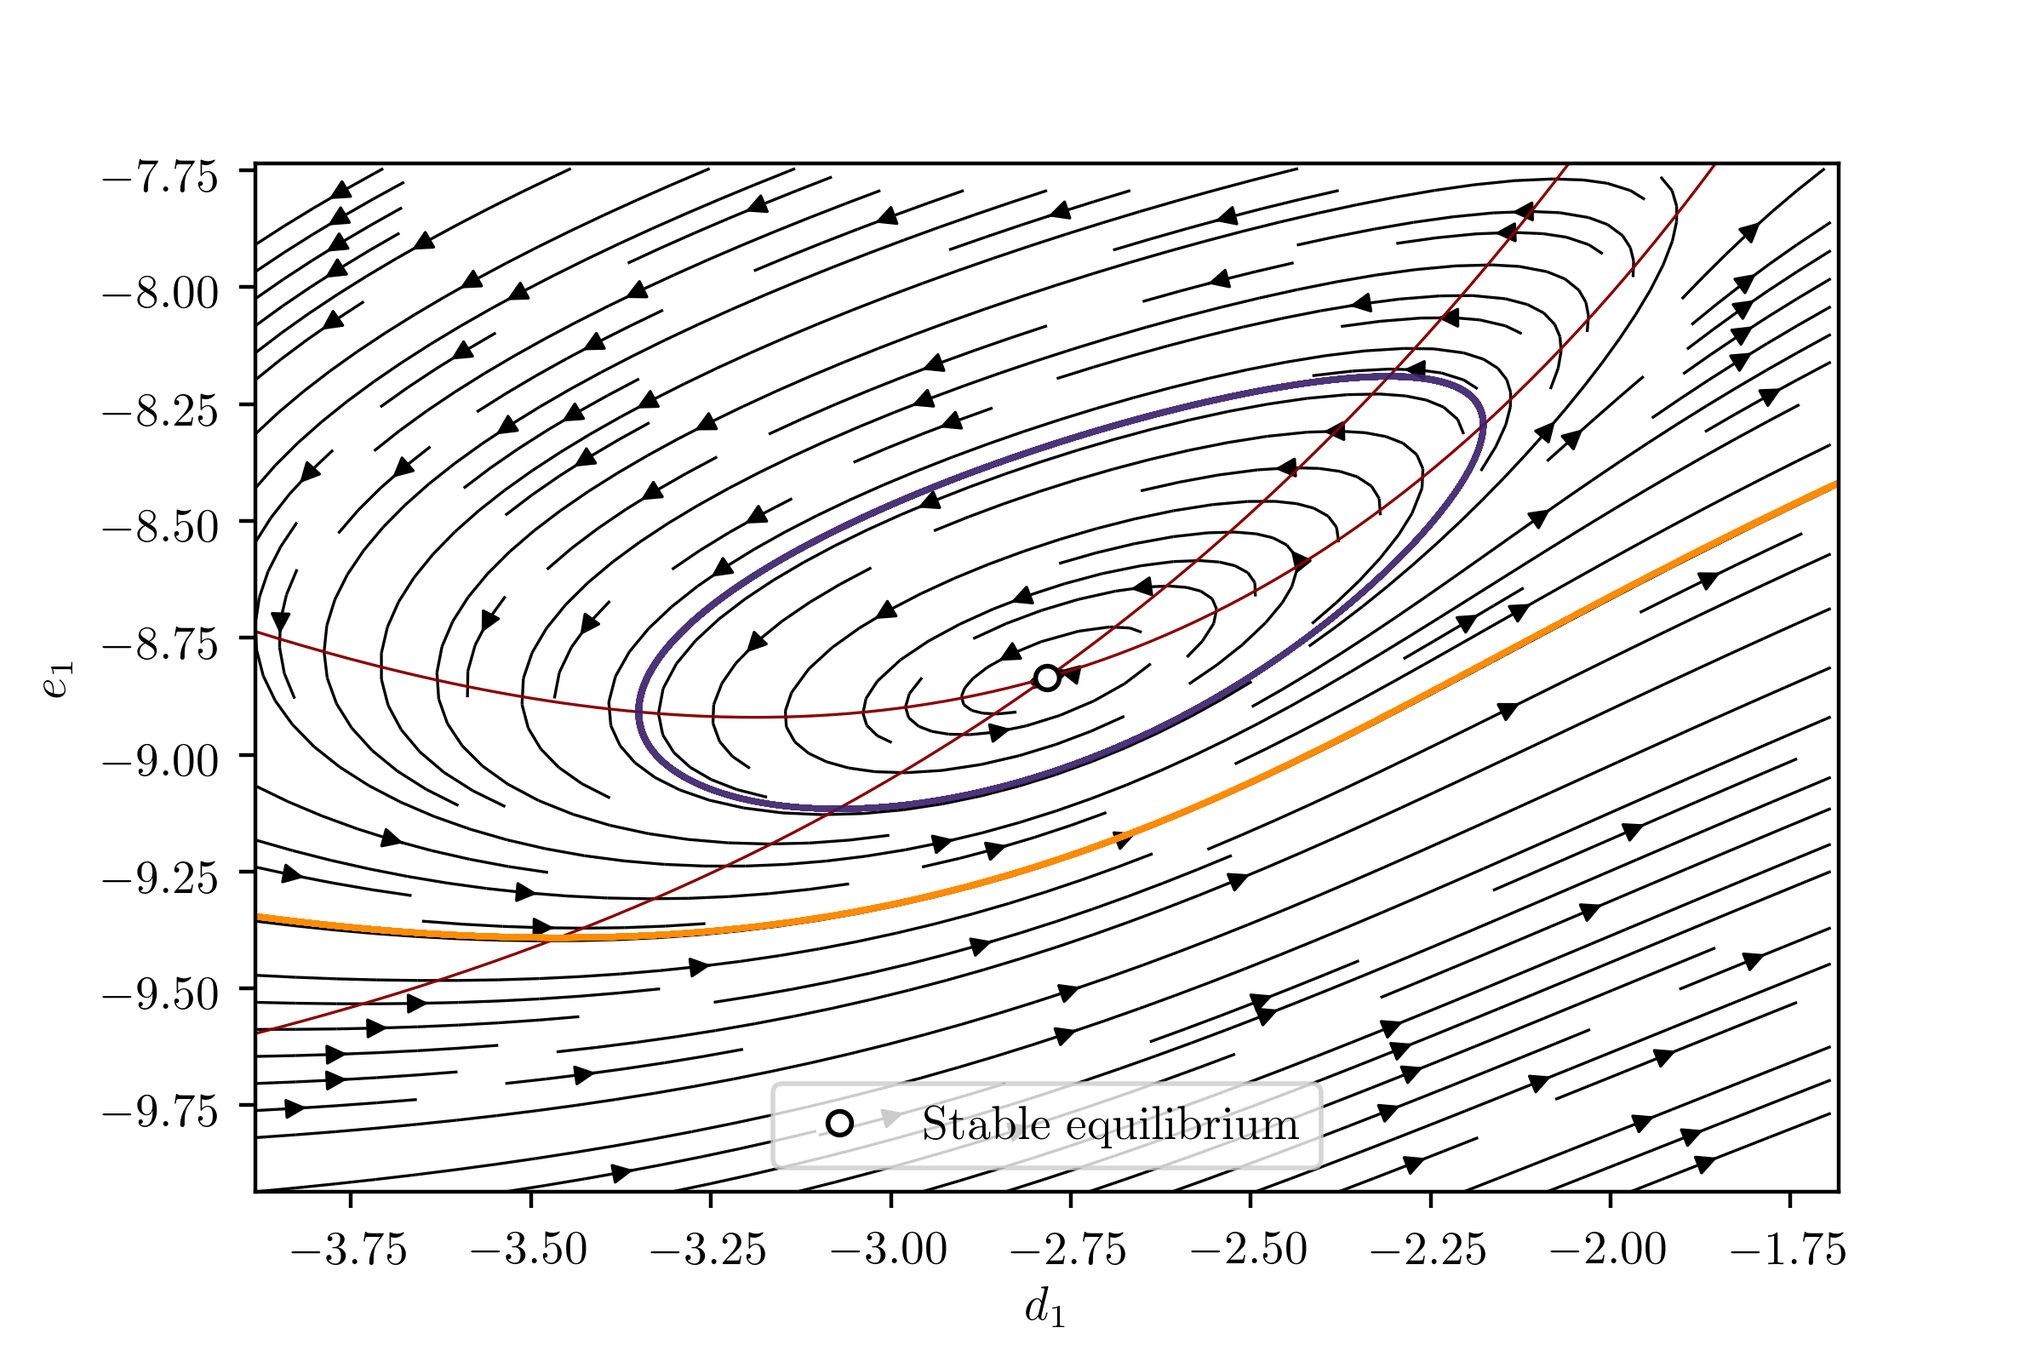
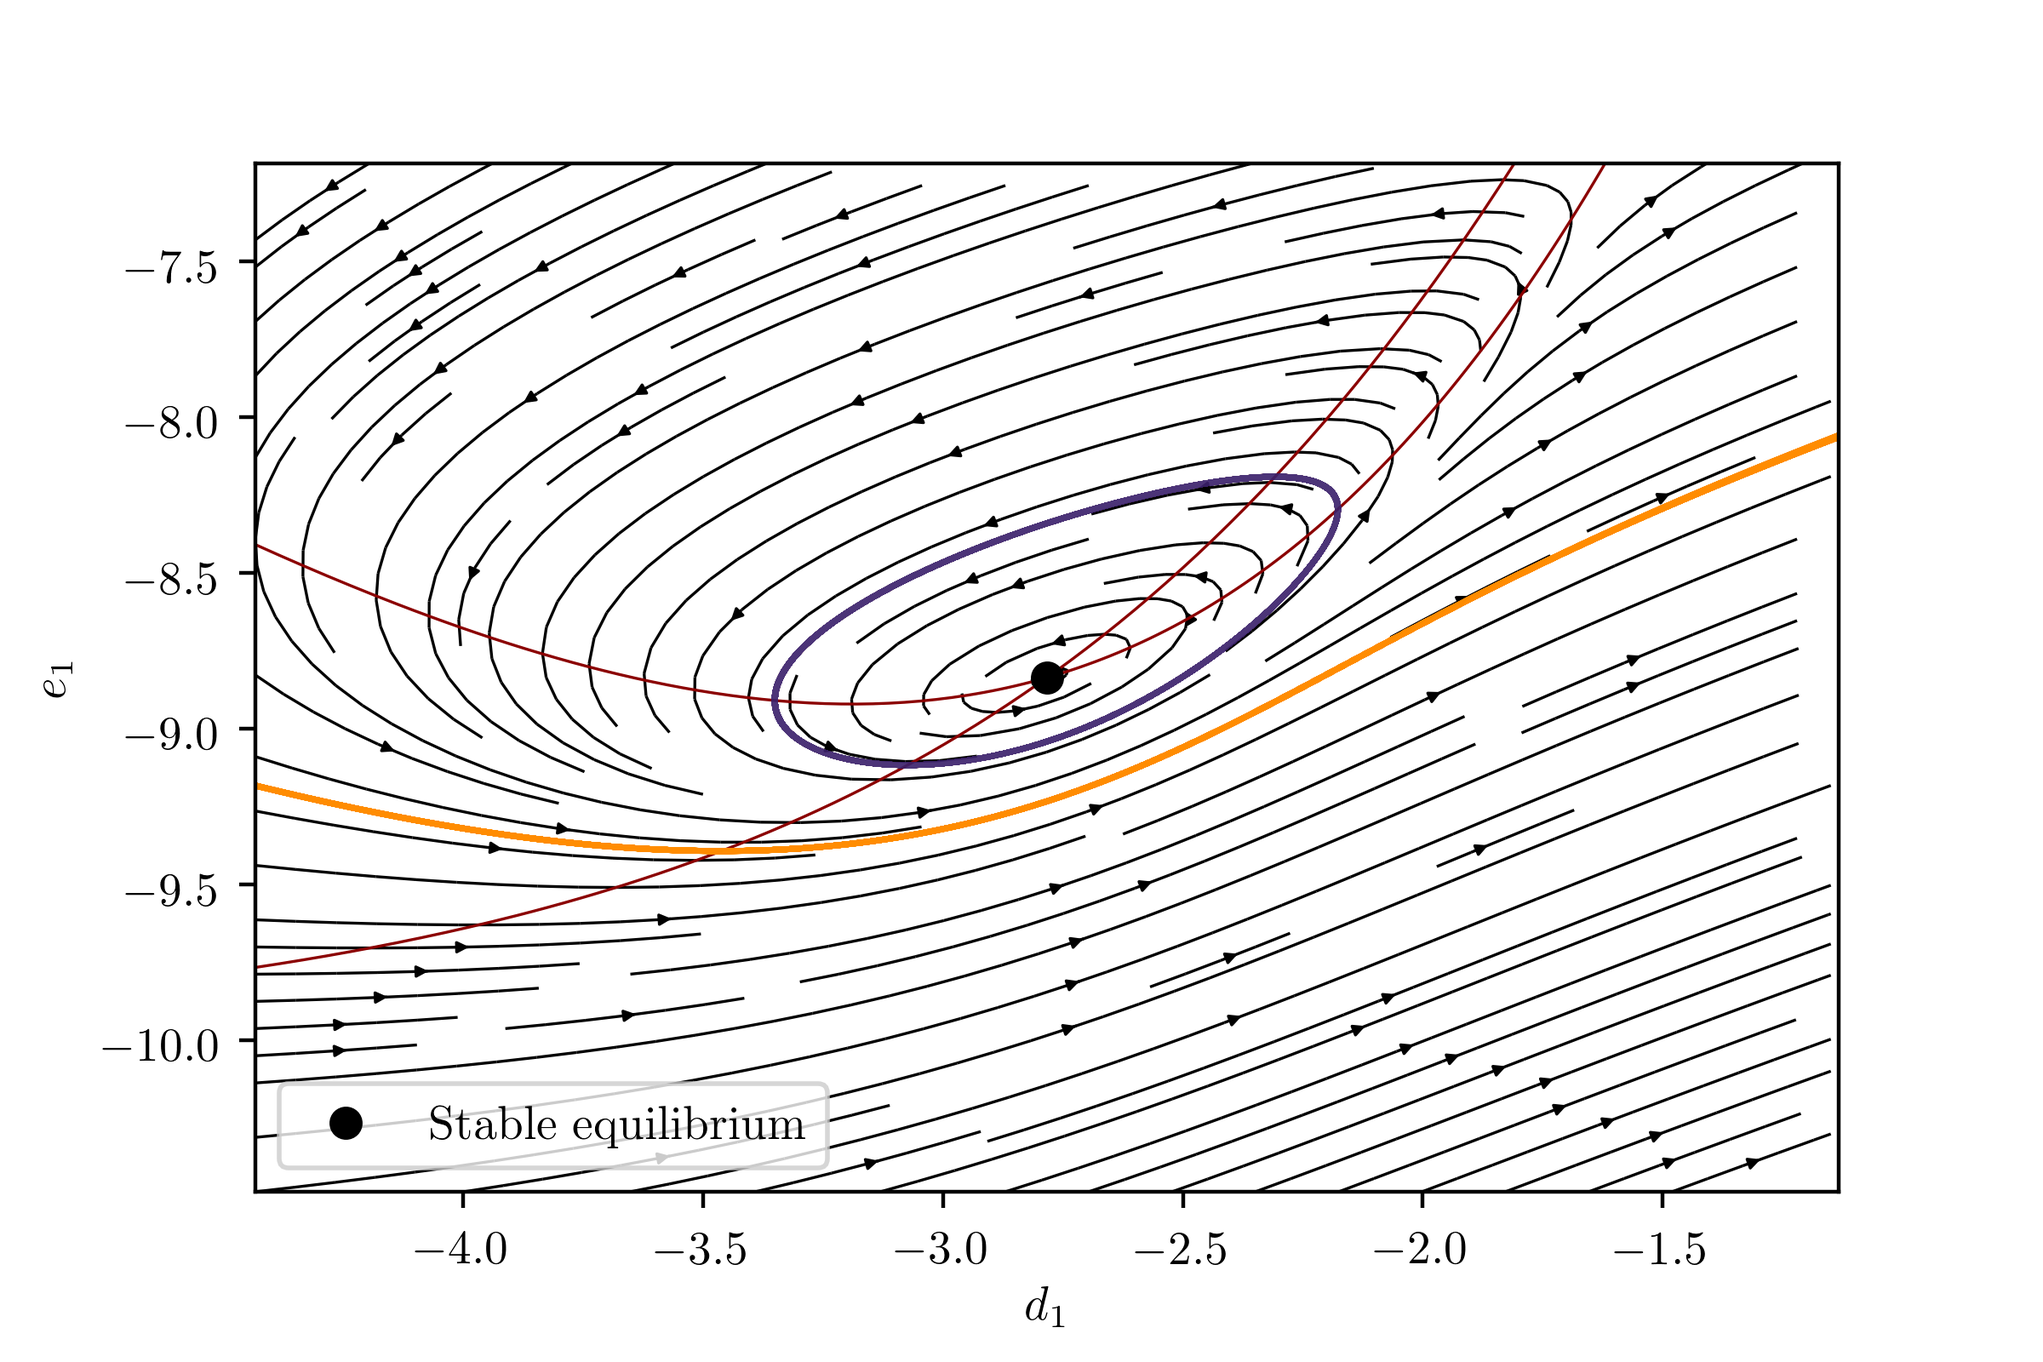
Version 15/05

diff --git a/text/analysis/2by2_adapt.tex b/text/analysis/2by2_adapt.tex
@@ -1,4 +1,4 @@
-In this section we analyse the effect of the adaptation module on the behaviour of the system. As already discussed in previous works (\cite{sandberg2002bayesian} for example), the role of adaptation is related with the presence of oscillations (sequential reactivation of the different patterns stored into the network). In the adopted model \cite{LansnerFRC} the adaptation acts as a local relaxation of the single minicolumns activity. 
+In this section we analyse the effect of the adaptation module on the behaviour of the system. As already discussed in previous works (\cite{sandberg2002bayesian} for example), the role of adaptation is related with the presence of oscillations (sequential reactivation of the different patterns stored into the network). In the adopted model \cite{LansnerFRC} the adaptation acts as a local relaxation of the single minicolumns activity. The bifurcation analysis that follows it was developed thanks to the useful comments in the Math Stack Exchange discussion with \cite{stack_question}
  
  We will first focus on a system made by two hyper-columns each one made of 2 minicolumns interacting via their outputs.
  
@@ -101,7 +101,7 @@ g(d,t)&d>0, \forall t, d\neq0
 \textbf{Missing part about Lyapunov stability analysis.}
 
 \paragraph{Bifurcation Analysis}
-Once we have proven that the synchronisation manifold (or set) is Globally Asymptotically Stable we can study the dynamics of the system restricted on it. Remember that in $M$ it holds that $d_1=d_2$, therefore we can study the dynamics of the two identical units independently.  
+Previously, we have proven how, under some sufficient assumptions, synchronisation between the two units occurs. Remember that in $M$ it holds that $d_1=d_2$, therefore an interesting approach would be to study the dynamics of the system restricted on it. Before going further, notice that the analysis that follows holds only on the synchronisation manifold $M$. Nevertheless, as the simulations of the complete system in [cite figures] show, the bifurcation analysis that follows will help us to get an insight on the role of the coupling strength $\varepsilon$ in shaping the qualitative behaviour of the system. On $M$ it holds that:
 \begin{equation}
 \begin{aligned}
 \dot d_{1} &= - d_1 - e_1 + \varepsilon f(d_1) \\
@@ -109,9 +109,9 @@ Once we have proven that the synchronisation manifold (or set) is Globally Asymp
 f(d_1) &= \frac{e^{d_1}-1}{e^{d_1}+1}
 \end{aligned}
 \label{eq:2D_sync}
-\end{equation}
+\end{equation}.
 
-We will start the analysis of this two dimensional system by computing the equilibria $(d_1^*,e_1^*)$ and study their properties with the variation of the parameters $\varepsilon, g_a$. The time constant $\tau_a$ is kept fixed, considered as a typical constant of the system. Notice that the system has a global symmetry property: for each solution $(d_1(t), e_1(t))$ it holds that also $(-d_1(t), -e_1(t))$ is a solution. The roots of the equations below \eqref{eq:eq_d_eq}, \eqref{eq:eq_e_eq}  are the fixed points of the dynamics in \eqref{eq:2D_sync}.
+We will start the analysis of this two dimensional system by computing the equilibria $(d_1^*,e_1^*)$ and study their properties with the variation of the parameters $\varepsilon, g_a$. The time constant $\tau_a$ is kept fixed, considered as a typical constant of the system. Notice that the system has a global symmetry property: for each solution $(d_1(t), e_1(t))$ it holds that also $(-d_1(t), -e_1(t))$ is a solution. The roots of the equations below \eqref{eq:eq_d_eq}, \eqref{eq:eq_e_eq}  are the equilibria of the dynamics in \eqref{eq:2D_sync}.
 \begin{equation}
  (\varepsilon - g_a)f(d_1^*) - d_1^* = 0
 \label{eq:eq_d_eq}
@@ -121,7 +121,7 @@ e_1^* = g_a f(d_1^*)
 \label{eq:eq_e_eq}
 \end{equation}
 
-The number of equilibria is uniquely defined by the quantity $\varepsilon-g_a$. In particular, it is easy to show analitically that there is a unique equilibrium for $\varepsilon \leq g_a-2$, while for $\varepsilon > g_a-2$ we have three equilibrium points. Unfortunately, since the equilibria can not be computed analytically we will make use of numerical analysis. In \cref{fig:eq2D_adapt} the three most important cases are plotted.
+The number of equilibria is uniquely defined by the quantity $\varepsilon-g_a$. In particular, it is easy to show that there is a unique equilibrium for $\varepsilon \leq g_a-2$, while for $\varepsilon > g_a-2$ we have three equilibrium points. Unfortunately, since the equilibria can not be computed analytically we will make use of numerical analysis. In \cref{fig:eq2D_adapt} the three most important cases are plotted.
 
  \begin{figure}[!h]
         \center{\includegraphics[width=\textwidth]{text/analysis/fig/2by2adapt/equilibria_2D.png}}
@@ -145,7 +145,7 @@ J_{(0, 0)} = \begin{bmatrix}
 \rho(\lambda) = \lambda^2 + a\lambda +b
 \end{equation}
 
-In order to study the stability of the equilibrium point one can study the sign of the polynomial's coefficient. In fact for a second order polynomial, the number of roots with positive real part can be determined by the number of variations in the polynomial's coefficients \cite{gantmacher2005matrix}.
+In order to study the stability of the equilibrium point one can study the sign of the polynomial's coefficient. In fact for a second order polynomial, the number of roots with positive real part can be determined by the number of variations in the polynomial's coefficients.
 
 \begin{equation}
 \begin{aligned}
@@ -156,23 +156,85 @@ In order to study the stability of the equilibrium point one can study the sign 
 
 When $\varepsilon<2(1+\frac{1}{\tau_a})$ the origin is an asymptotically stable equilibrium point. This condition is not particularly interesting since it means that all the units in the network converge to the same value and their output is identical. In other words, the network is not able to recall any pattern (\cref{fig:eq2D_focus}).
 
-\begin{figure}[!h]
+\begin{figure}[H]
         \center{\includegraphics[width=\textwidth]{text/analysis/fig/2by2adapt/streamline_stable_focus.png}}
         \caption{\label{fig:eq2D_focus} Phase portrait of system in \eqref{eq:2D_sync} for $\varepsilon=1.5,\ g_a=10,\ \tau_a=2$. The nullclines are shown in dark red; the streamline plot is shown in black; several trajectories of the system with different initial conditions are shown in orange.}
 \end{figure}
 
 
-At the critical value $\varepsilon^* = 2 ( 1 + \frac{1}{\tau_a} ) $ a \textbf{supercritical Hopf} bifurcation occurs. In fact, as $\varepsilon$ passes through $\varepsilon^*$, the complex eigenvalues $\lambda_{1,2}$ crosses the imaginary axis. In fact, ${\rm I\!R}(\lambda_{1,2})<0, \varepsilon < \varepsilon^*$ and  ${\rm I\!R}(\lambda_{1,2})>0, \varepsilon > \varepsilon^*$. Therefore, the equilibrium point $(0, 0)$ changes its stability and a unique stable limit cycle bifurcates from it (\cref{fig:eq2D_cycle}).
-\begin{figure}[!h]
+At the critical value $\varepsilon^* = 2 ( 1 + \frac{1}{\tau_a} ) $ a \textbf{supercritical Hopf} bifurcation occurs. In fact, as $\varepsilon$ passes through $\varepsilon^*$, the complex eigenvalues $\lambda_{1,2}$ cross the imaginary axis. In fact, ${\rm I\!R}(\lambda_{1,2})<0, \varepsilon < \varepsilon^*$ and  ${\rm I\!R}(\lambda_{1,2})>0, \varepsilon > \varepsilon^*$. Therefore, the equilibrium point $(0, 0)$ changes its stability and a unique stable limit cycle bifurcates from it (\cref{fig:eq2D_cycle}).
+
+\begin{figure}[H]
         \center{\includegraphics[width=\textwidth]{text/analysis/fig/2by2adapt/streamline_cycle.png}}
         \caption{\label{fig:eq2D_cycle} Phase portrait of system in \eqref{eq:2D_sync} for $\varepsilon=8.5,\ g_a=10,\ \tau_a=2$. The nullclines are shown in dark red; the streamline plot is shown in black; several trajectories of the system with different initial conditions are shown in orange.}
 \end{figure}
 
+But what happens when the coupling factor $\varepsilon$ increases? The next interesting bifurcation phenomenon occurs at the critical value $\varepsilon^o = g_a + 2$ when a \textbf{supercritical pitchfork bifurcation} occurs. In fact, the origin spawns two unstable equilibria and changes from unstable node to saddle. While the parameter $\varepsilon > \varepsilon^o$ keeps increasing the additional two equilibria moves far away from the origin and additional bifurcations occur. In particular, by numerically analising the stability of the Jacbobian matrix at the two off-origin equilibria, a \textbf{subcritical Hopf bifurcation} occurs at the critical value $\varepsilon^{oo} \approx 12.69$. As discussed in the preliminaries section [cite the right section], in a specular way with respect to what happens in the supercritical case, each off origin equilibria changes its stability and a unique unstable limit cycle bifurcates from each of them as shown in \cref{fig:adapt_zoom_tri_limt}. As the parameter $\varepsilon$ increases the unstable limit cycles increase their size until they collide on the saddle equlibria at the origin. After this homoclinic bifurcation occurs \footnote{This is a particular type of global bifurcation that requires further analysis},
+ an interesting phenomenon occurs: the two unstable limit cycles merge into a bigger limit cycle as shown in \cref{fig:eq2D_cycle_before_collapse}. The last important bifurcation consists in the mutual annihilation of the inner (unstable) and outer (stable) limit cycles after which the only attractors in the system are the two off-origin equilibria (stable) and the origin (unstable) (\cref{fig:eq2D_cycle_after_collapse}).
 
-But what happens when the coupling factor $\varepsilon$ increases? The next interesting bifurcation phenomenon occurs at the critical value $\varepsilon^o = g_a + 2$ when a \textbf{supercritical pitchfork bifurcation} occurs. In fact, the origin spawns two unstable equilibria and \textit{changes from unstable node to saddle node. What counts for bifurcations is what happens on the center manifold}. While the parameter $\epsilon > \epsilon^o$ keeps increasing the additional two equilibria moves far away from the origin and additional bifurcations occur. In particular, one can numerically find that at ... hopf bifurcation happens again.
+\iftrue
+   \begin{figure*}[!h]
+        \centering
+        \begin{subfigure}[b]{1\textwidth}
+            \centering
+            \includegraphics[width=\textwidth]{text/analysis/fig/2by2adapt/streamline_triple_limit.png}
+        \end{subfigure}
+        \vskip\baselineskip
+        \begin{subfigure}[b]{1\textwidth}  
+            \centering 
+            \includegraphics[width=\textwidth]{text/analysis/fig/2by2adapt/streamline_fixed_zoom.png}
+        \end{subfigure}
+        \caption{Phase portrait of system in \eqref{eq:2D_sync} for $\varepsilon=13.15,\ g_a=10,\ \tau_a=2$. The nullclines are shown in dark red; the streamline plot is shown in black; the outer stable limit cycle is shown in orange; the inner unstable limit cycles (obtained by backward integration in time) are shown in blue. The two pictures show respectively the overall phase portrait (upper) and a zoom on the unstable limit cycle (lower).} 
+        \label{fig:adapt_zoom_tri_limt}
+    \end{figure*}
+\fi
 
 
 \begin{figure}[!h]
-        \center{\includegraphics[width=\textwidth]{text/analysis/fig/2by2adapt/streamline_fixed.png}}
-        \caption{\label{fig:eq2D_mem}Two equilibria}
+        \center{\includegraphics[width=\textwidth]{text/analysis/fig/2by2adapt/streamline_homoclinic.png}}
+        \caption{\label{fig:eq2D_cycle_homoclinic} Phase portrait of system in \eqref{eq:2D_sync} for $\varepsilon=13.2422,\ g_a=10,\ \tau_a=2$. The nullclines are shown in dark red; the streamline plot is shown in black; the outer stable limit cycle is shown in orange; the inner unstable limit cycles (obtained by backward integration in time) are shown in blue.}
 \end{figure}
+
+\begin{figure}[!h]
+        \center{\includegraphics[width=\textwidth]{text/analysis/fig/2by2adapt/streamline_before_collapse.png}}
+        \caption{\label{fig:eq2D_cycle_before_collapse} Phase portrait of system in \eqref{eq:2D_sync} for $\varepsilon=13.24605,\ g_a=10,\ \tau_a=2$. The nullclines are shown in dark red; the streamline plot is shown in black; the outer stable limit cycle is shown in orange; the inner unstable limit cycle (obtained by backward integration in time) is shown in blue.}
+\end{figure}
+
+
+\begin{figure}[!h]
+        \center{\includegraphics[width=\textwidth]{text/analysis/fig/2by2adapt/streamline_after_collapse.png}}
+        \caption{\label{fig:eq2D_cycle_after_collapse} Phase portrait of system in \eqref{eq:2D_sync} for $\varepsilon=13.5,\ g_a=10,\ \tau_a=2$. The nullclines are shown in dark red; the streamline plot is shown in black; several trajectories of the system with different initial conditions are shown in orange. }
+\end{figure}
+
+\paragraph{Simulations on the complete system}
+As we have observed previously, on the synchronisation manifold, the dynamics of the system is quite rich and it qualitatively varies according to the variation of the parameter $\varepsilon$. In order to verify the bifurcation analysis above, in the following we include some simulations and observations about the complete system in \cref{eq:complete_dynamics}. 
+
+The four most important situations above can be resumed as follows:
+\begin{itemize}
+    \item One globally stable equilibrium point with $\varepsilon<2(1+\frac{1}{\tau_a})$ (\cref{fig:eq2D_focus})
+    \item One globally stable limit cycle with $2(1+\frac{1}{\tau_a}) < \varepsilon \lessapprox 12.69$ (\cref{fig:eq2D_cycle})
+    \item One stable limit cycle and two stable equilibria with $12.69 \lessapprox \varepsilon \lessapprox 13.24605$ (\cref{fig:adapt_zoom_tri_limt})
+    \item Two stable equilibria with $\varepsilon \gtrapprox 13.24605$ (\cref{fig:eq2D_cycle_after_collapse})
+\end{itemize}
+In both the first two situations, the attractors on the synchronization manifold are unique ...51200
+
+What is left is to analyse what happens in the two others situations
+
+
+
+\iftrue
+   \begin{figure*}[!h]
+        \centering
+        \begin{subfigure}[b]{1\textwidth}
+            \centering
+            \includegraphics[width=\textwidth]{text/analysis/fig/2by2adapt/synch_2_mc_1.png}
+        \end{subfigure}
+        \vskip\baselineskip
+        \begin{subfigure}[b]{1\textwidth}  
+            \centering 
+            \includegraphics[width=\textwidth]{text/analysis/fig/2by2adapt/synch_2_mc_2.png}
+        \end{subfigure}
+        \caption{Phase portrait of system in \eqref{eq:2D_sync} for $\varepsilon=13.15,\ g_a=10,\ \tau_a=2$. The nullclines are shown in dark red; the streamline plot is shown in black; the outer stable limit cycle is shown in orange; the inner unstable limit cycles (obtained by backward integration in time) are shown in blue. The two pictures show respectively the overall phase portrait (upper) and a zoom on the unstable limit cycle (lower).} 
+        \label{fig:adapt_zoom_tri_limt}
+    \end{figure*}
+\fi

diff --git a/text/intro/intro.tex b/text/intro/intro.tex
@@ -1,5 +1,21 @@
 \section{Motivation}
+Working Memory (WM) is a general-purpose cognitive system responsible for temporary holding information in service of higher-order cognition
+systems. Such a system, capable of recalling and holding previous stored information, is of fundamental importance for complex tasks as reasoning,
+decision making and complex behaviour.
+
+It is widely recognised that the Working Memory is located in the cortical structure of the Prefrontal cortex (PFC), although there is still no consensus
+about the underlying neuronal mechanisms that regulates it.
+Several abstract neurocomputational models, have been built on a particular neurobiological hypothesis, at different levels of abstraction, to account
+for human experimental data on Working Memory.
+
+In the model adopted in this thesis, Working Memory is encoded by fast and volatile Hebbian synaptic plasticity and modulated by non-Hebbian intrinsic excitability. Our non-spiking model belongs to a special family of biologically inspired recurrent Artificial Neural Network called Bayesian Confidence Propagation Neural Network (BCPNN).
+To the best of our knowledge, the proposed dynamical recurrent neural network has never been studied from a control theory perspective. However,
+considering the modular structure of the network and the dynamic evolution of the interactions of its units, control theory could provide systematic
+approaches for a better understanding and analysis of such a system. In particular, this thesis gives a networked control representation of the network in order to analyse its stability properties and propose techniques to tune the parameters that characterise it.
+
 \section{Previous work}
+
+
 \section{Project outline}
 \section{Attractor Neural Networks}
 \input{text/intro/attractor_neural_newtork.tex}

diff --git a/main.tex b/main.tex
@@ -2,9 +2,10 @@
 
 \usepackage{blindtext} % This is just to get some nonsense text in this template, can be safely removed
 \usepackage{amsmath}
+\usepackage{amssymb}
 \usepackage{todonotes}
 \usepackage[bb=boondox]{mathalfa}
-
+\usepackage{float}
 \usepackage{graphicx}
 \usepackage{subcaption}
 \usepackage{mwe}
@@ -31,7 +32,6 @@
 \newtheorem{corollary}{Corollary}[theorem]
 \newtheorem{lemma}[theorem]{Lemma}
 \newtheorem{definition}{Definition}[section]
-
 
 \begin{document}
 
